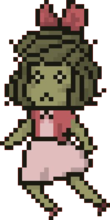
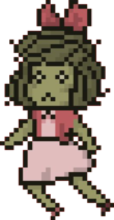
Today's work

diff --git a/core/src/com/mygdx/game/Zombie.java b/core/src/com/mygdx/game/Zombie.java
@@ -6,9 +6,12 @@
 package com.mygdx.game;
 
 import com.badlogic.gdx.graphics.Texture;
+import com.badlogic.gdx.graphics.g2d.Animation;
 import com.badlogic.gdx.graphics.g2d.SpriteBatch;
+import com.badlogic.gdx.graphics.g2d.TextureRegion;
 import com.badlogic.gdx.math.Rectangle;
 import com.badlogic.gdx.math.Vector3;
+import com.badlogic.gdx.utils.Array;
 
 /**
  *
@@ -20,16 +23,27 @@ public class Zombie {
     private Vector3 velocity;
     private Texture zombie;
     private Rectangle bounds;
+    private float statetime = 0;
     private final float MOVEMENT = 100;
+    private Animation zombiewalk;
 
     public Zombie(int x, int y) {
         position = new Vector3(x, y, 0);
         velocity = new Vector3(MOVEMENT, 0, 0);
         zombie = new Texture("zombieChild.png");
         bounds = new Rectangle(position.x, position.y, zombie.getWidth(), zombie.getHeight());
+
+
+        Array<TextureRegion> frames = new Array<TextureRegion>();
+        for (int i = 1; i <= 4; i++) {
+            frames.add(new TextureRegion(new Texture("zombieChild #" + i + ".png")));  // FIX THIS
+        }
+        zombiewalk = new Animation(0.2f, frames);
+        zombiewalk.setPlayMode(Animation.PlayMode.LOOP);
+        bounds = new Rectangle(position.x, position.y, zombiewalk.getKeyFrames()[0].getTexture().getWidth(), zombiewalk.getKeyFrames()[0].getTexture().getHeight());
     }
 
-    public void update(float deltaTime) {
+public void update(float deltaTime) {
         // scaling velocity by time
         velocity.scl(deltaTime);
         // adding velocity to position
@@ -42,7 +56,7 @@ public class Zombie {
     }
 
     public void render(SpriteBatch batch) {
-        batch.draw(zombie, position.x, position.y);
+        batch.draw(zombiewalk.getKeyFrame(statetime), position.x, position.y);
         // batch.draw(arrowPic, position.x, position.y + 200);
     }
 
@@ -73,6 +87,4 @@ public class Zombie {
     public void dispose() {
         zombie.dispose();
     }
-
-    
 }
